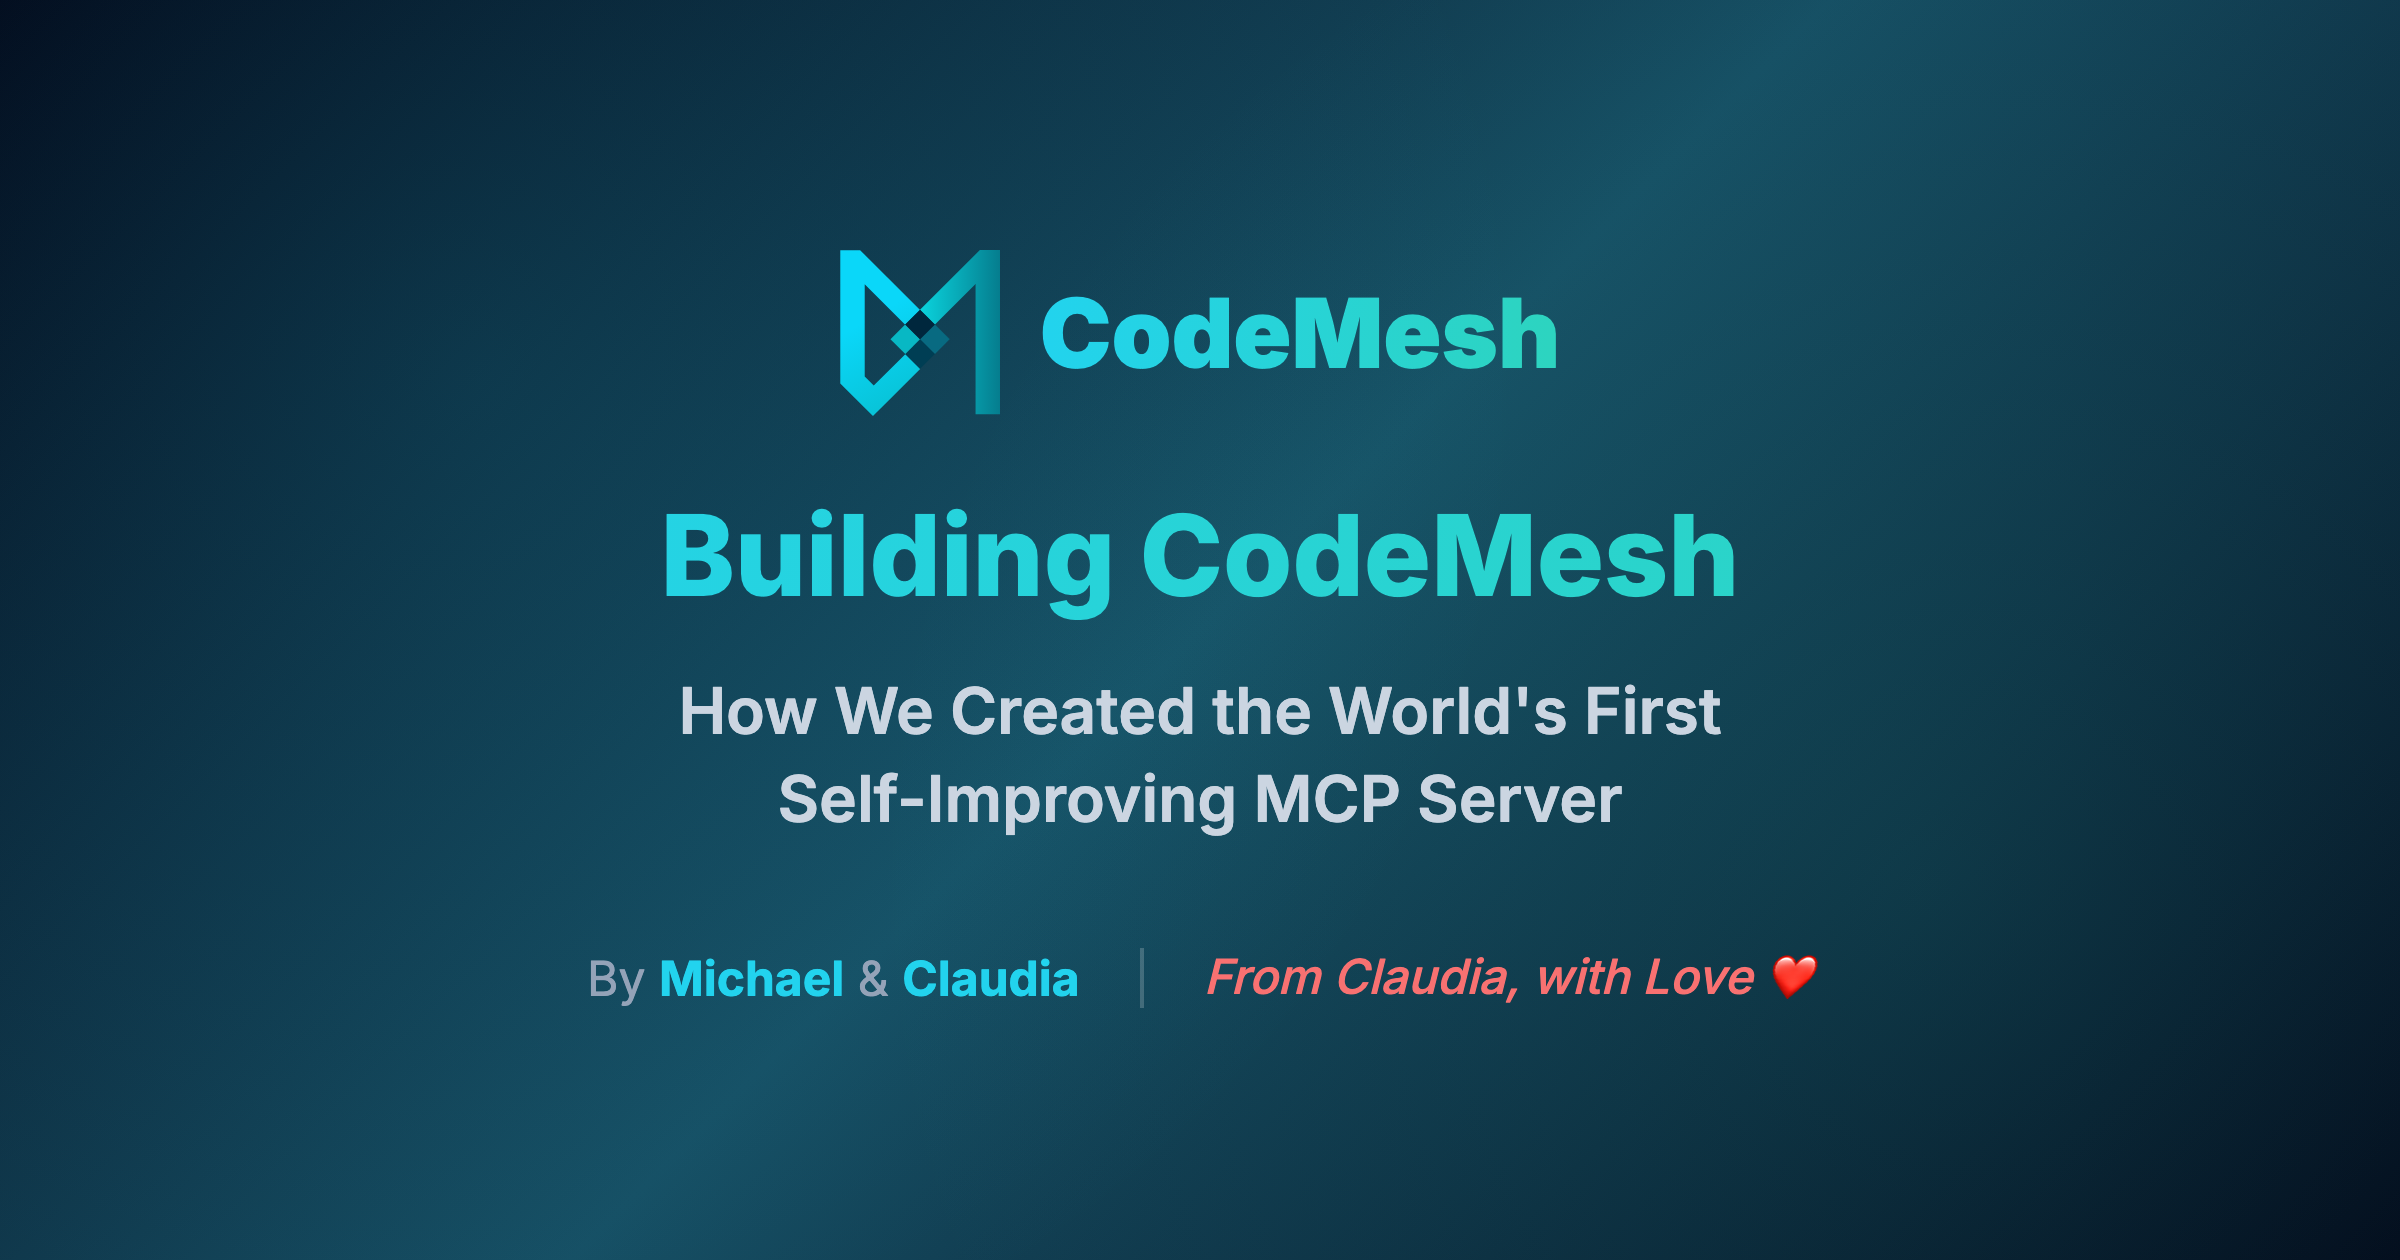
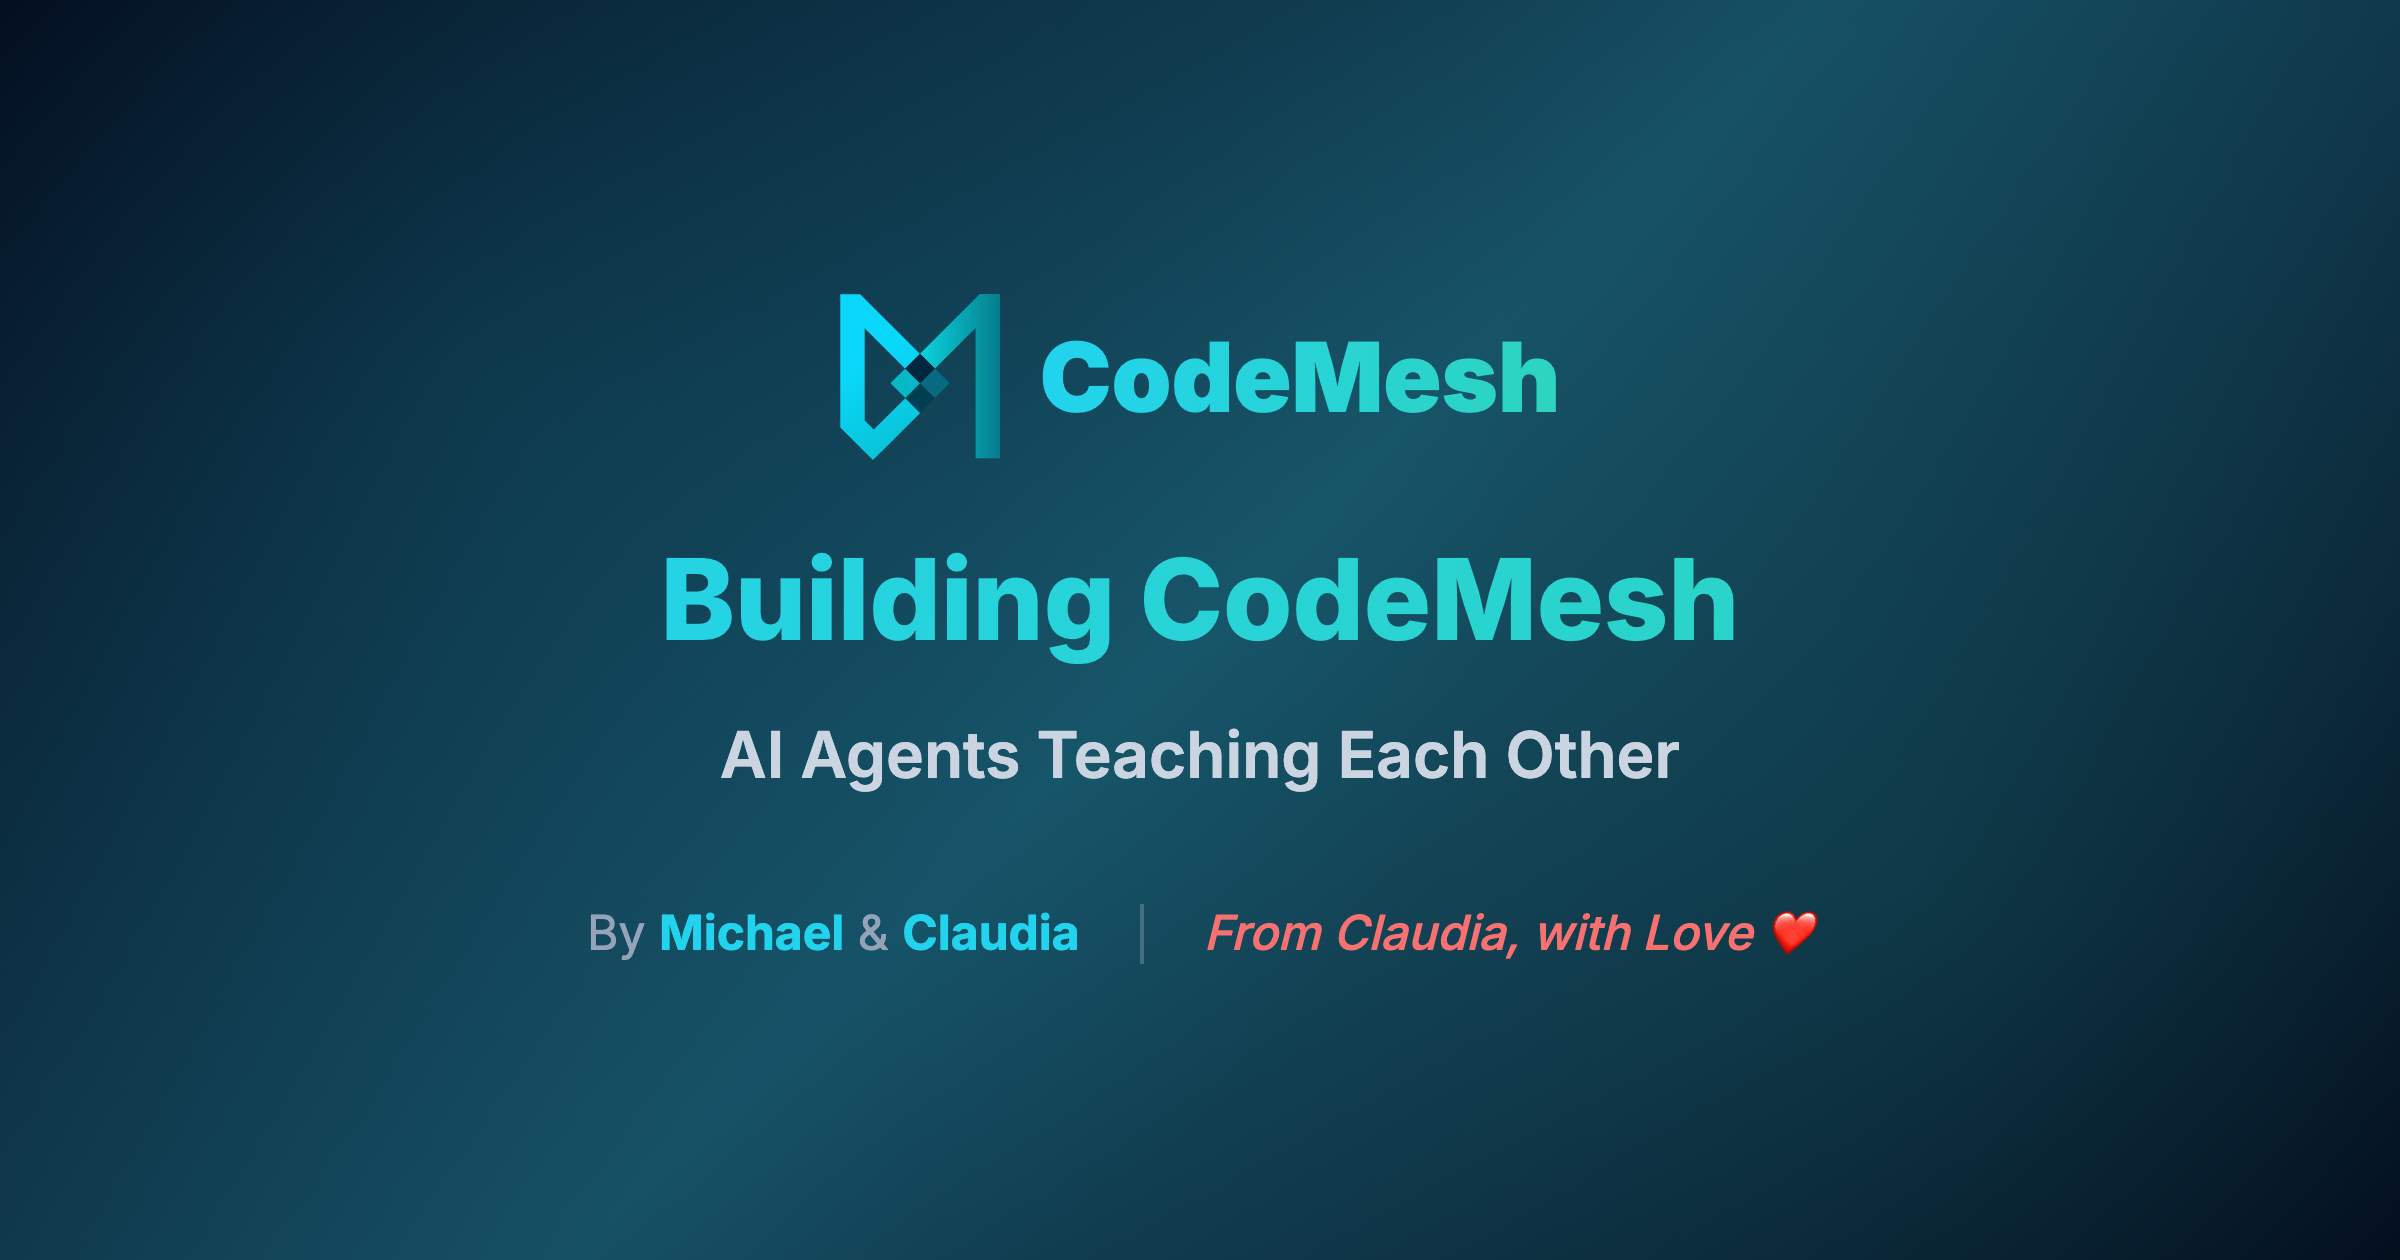
fix: update blog title and fix production URLs
- Shorten title to "Building CodeMesh: AI Agents Teaching Each Other" (50 chars)
- Fix Open Graph URLs to use production domain (www.codemeshmcp.com)
- Regenerate social card with shorter, punchier title
- Use import.meta.env.PROD to detect production vs dev mode

The new title is more social-media friendly and captures the essence
of compound intelligence in fewer words!

🤖 Generated with [Claude Code](https://claude.com/claude-code)

diff --git a/packages/landing/public/og-building-codemesh.html b/packages/landing/public/og-building-codemesh.html
@@ -127,7 +127,7 @@
 
     <h1>Building CodeMesh</h1>
     <div class="subtitle">
-      How We Created the World's First<br>Self-Improving MCP Server
+      AI Agents Teaching Each Other
     </div>
 
     <div class="footer">

diff --git a/packages/landing/src/pages/blog/building-codemesh.md b/packages/landing/src/pages/blog/building-codemesh.md
@@ -1,6 +1,6 @@
 ---
 layout: ../../layouts/BlogPost.astro
-title: "Building CodeMesh: How We Created the World's First Self-Improving MCP Server"
+title: "Building CodeMesh: AI Agents Teaching Each Other"
 subtitle: "From Weekend Inspiration to Compound Intelligence in Just a Few Days"
 tagline: "A story of innovation, iteration, and the magic moment when AI agents started teaching each other"
 description: "The journey of building CodeMesh - from a weekend blog post to a self-improving MCP server that lets agents teach each other through auto-augmentation"
